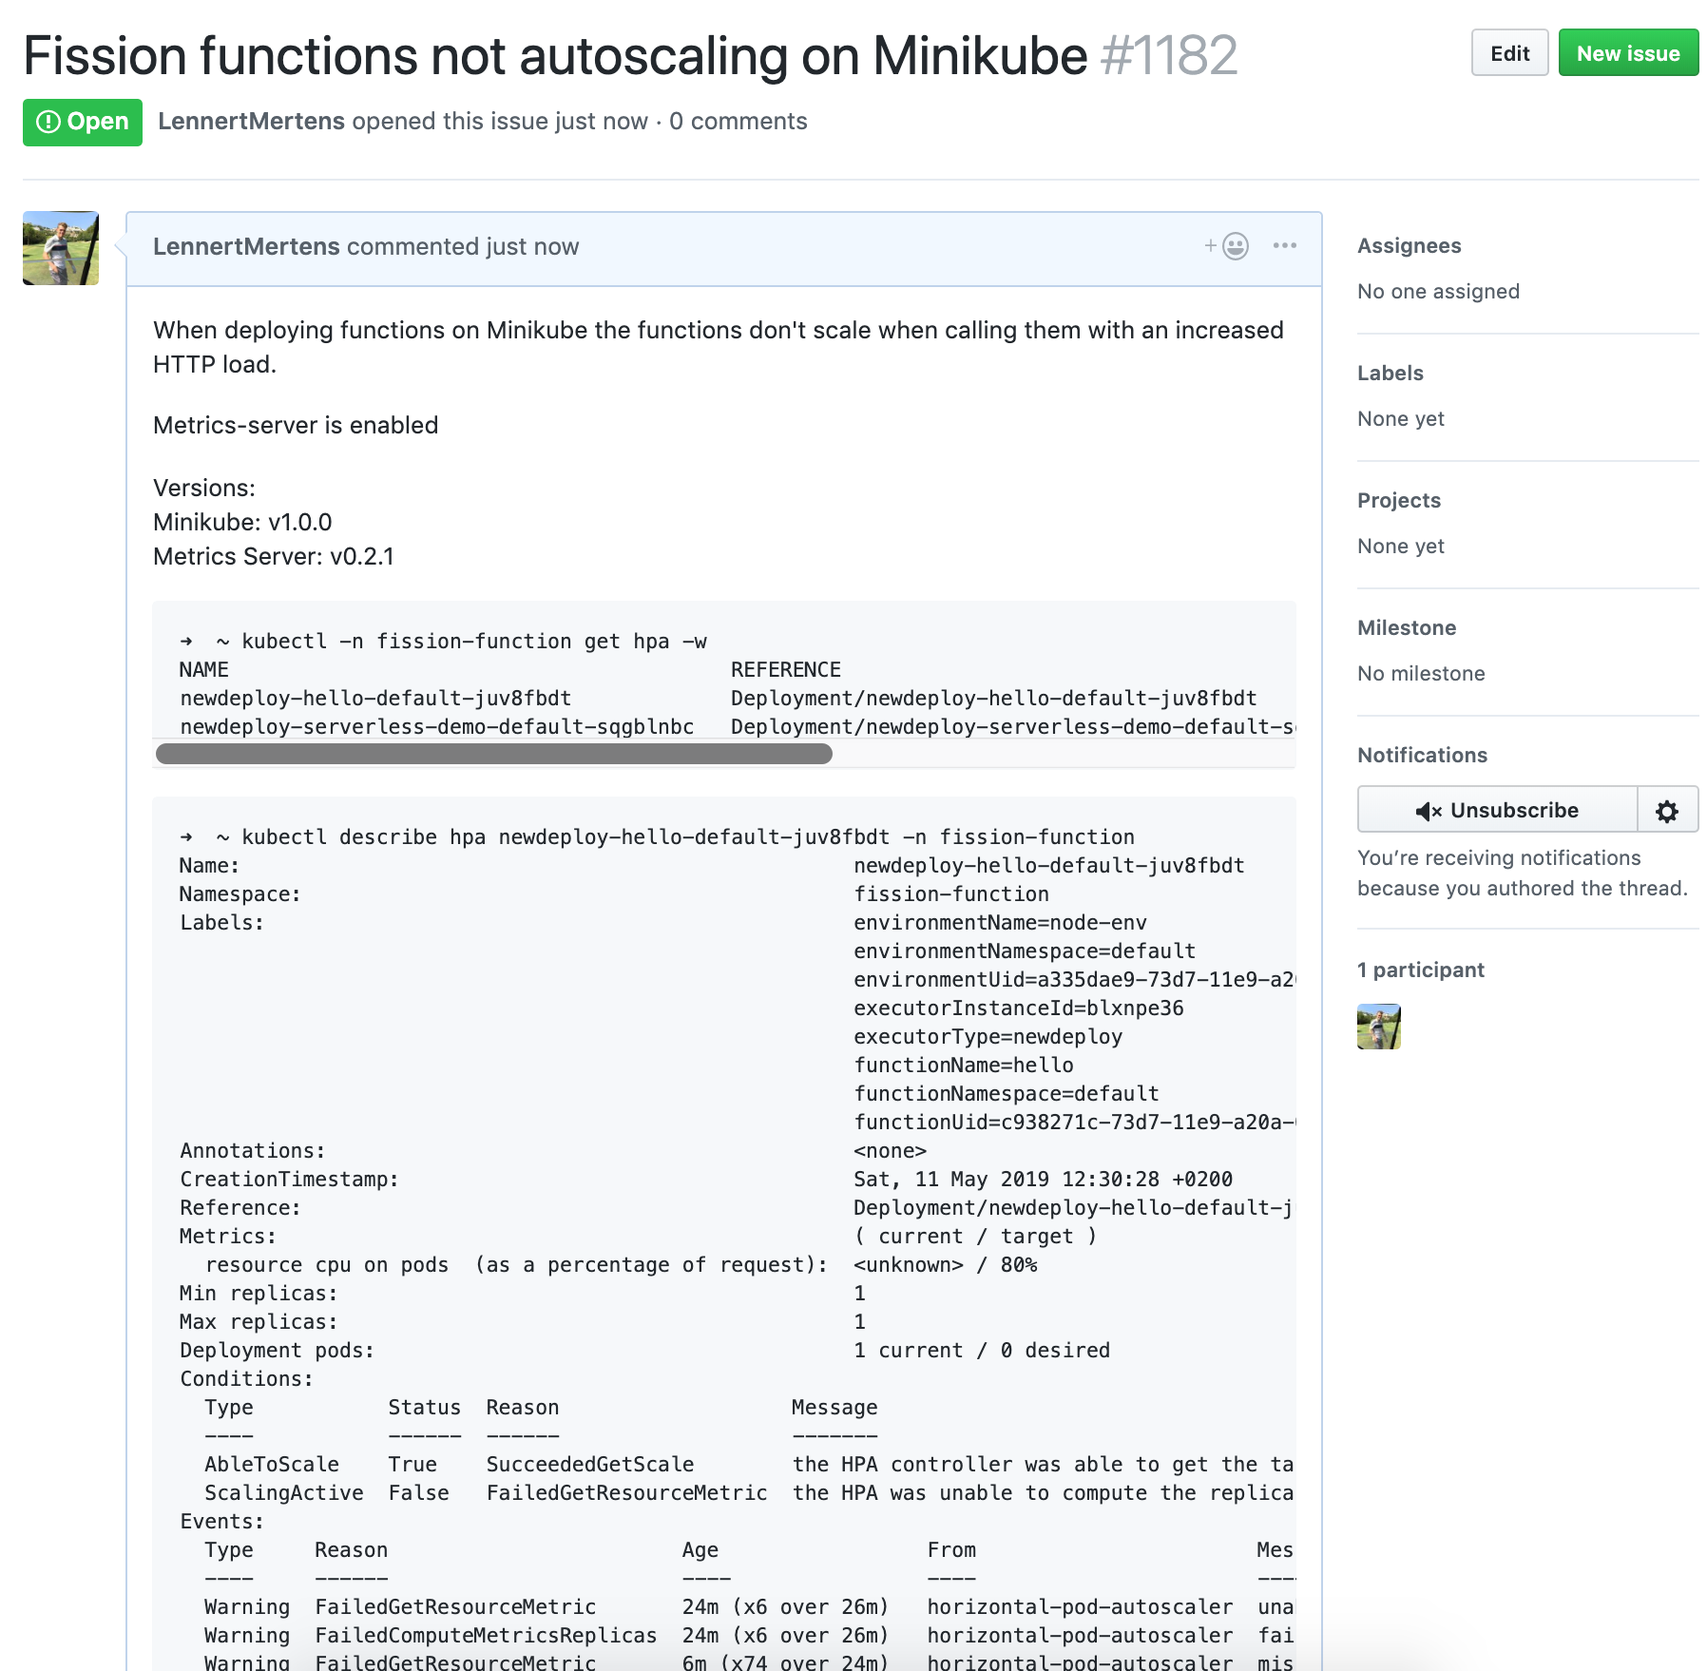
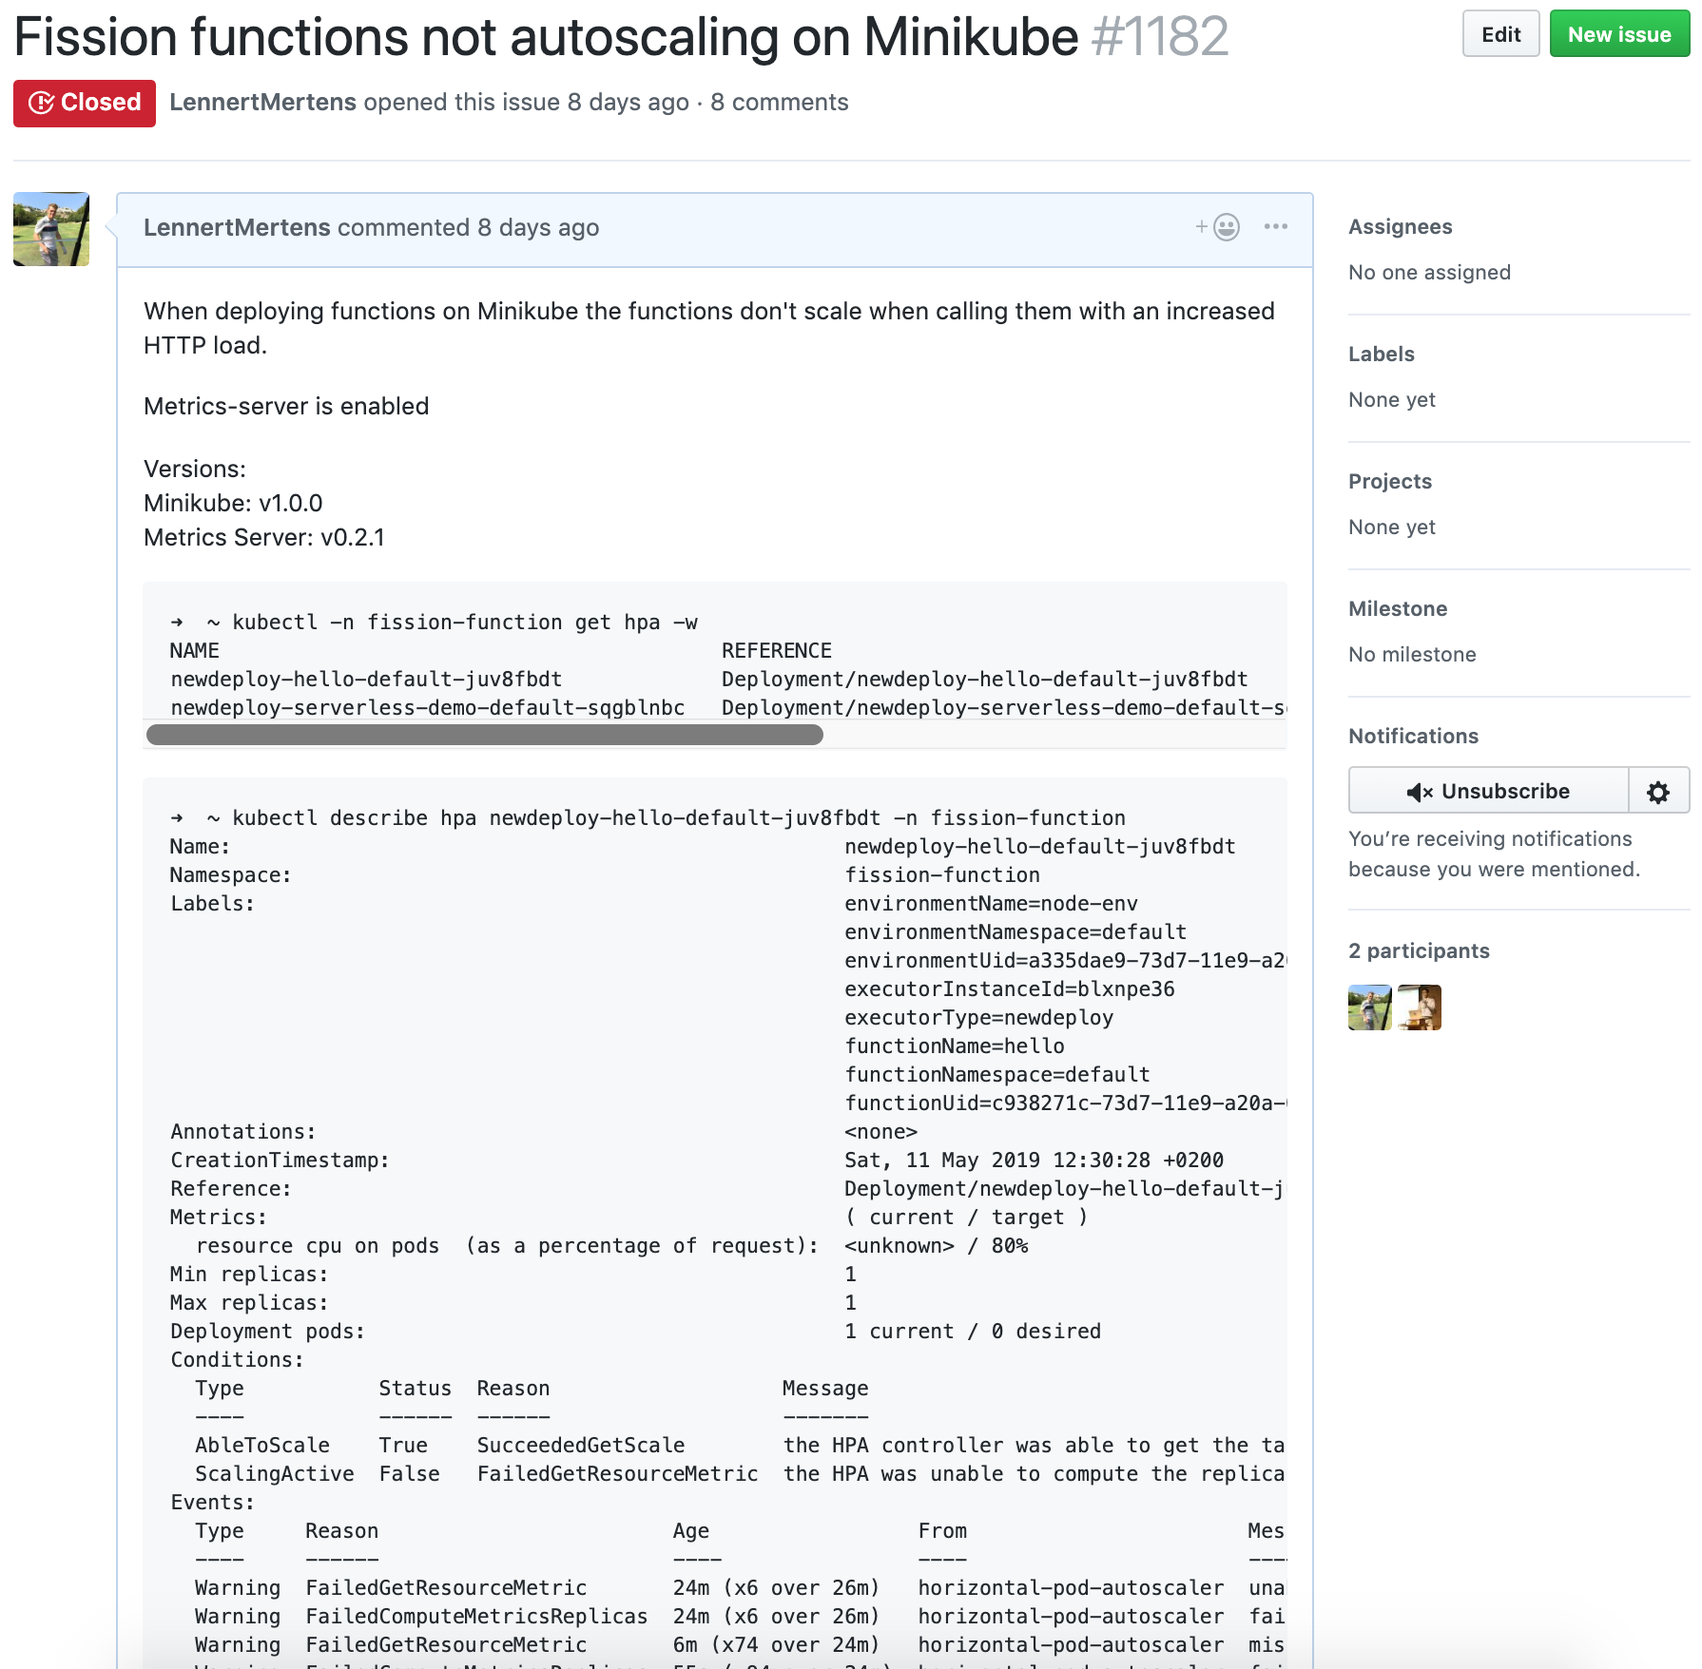
Verbeteren + aanpassing lay-out

diff --git a/bachproef/proof-of-concept.tex b/bachproef/proof-of-concept.tex
@@ -34,6 +34,7 @@ $ brew cask install minikube
 $ brew install kubernetes-cli
 \end{lstlisting}
 
+\newpage
 \subsection{Softwareversies gebruikt tijdens Proof of Concept}
 \begin{itemize}
     \item VirtualBox: 6.0.4 
@@ -59,6 +60,7 @@ minikube-vm at 192.168.99.107
 $ minikube addons enable metrics-server
 \end{lstlisting}
 
+\newpage
 \section{Python demofunctie}
 \label{sec:python-demofunctie}
 De werking van beide frameworks zal worden gedemonstreerd met een zelfgeschreven Python functie. De demofunctie maakt het mogelijk om via een HTTP GET request waaraan een string wordt meegegeven, de string weg te schrijven naar een Google spreadsheet bestand. Wanneer de functie wordt aangeroepen zonder een toegevoegde string dan wordt er een GET request verstuurd naar de API die via de spreadsheet een lijst teruggeeft van weggeschreven woorden uit een vastgelegde kolom. Om gebruik te kunnen maken van Google spreadsheets moet er een Google project worden aangemaakt via de Google API, deze stappen staan verder beschreven. De functie heeft op beide frameworks dezelfde functionaliteit maar de code zal echter aangepast worden aan het framework waarop de functie draait. Beide frameworks verwachten een bepaalde vorm hoe functies geschreven worden. In sectie \ref{sec:demofunctie} is de code terug te vinden voor het uitvoeren van de functie lokaal en dus niet via een FaaS framework. De code werd lokaal geschreven en getest alvorens deze werd aangepast aan de frameworks. De code in sectie \ref{sec:demofunctie} werd gebruikt als uitgangspunt voor het omvormen naar functies die voldoen aan de specifieke vereisten van beide frameworks.
@@ -229,7 +231,8 @@ $ faas-cli login -g $OPENFAAS_URL -u admin -p $PASSWORD
 Na de installatie is het mogelijk naar de OpenFaaS UI te surfen via het IP adres van de Minikube cluster gevolgd door poortnummer 31112.
 De eerste keer dient er aangemeld te worden met gebruiker ''admin'' (Deze gebruiker wordt aangemaakt in het installatiescript) en het wachtwoord dat in de Terminal werd weergegeven door het installatiescript. Na het aanmelden is de interface zoals in figuur \ref{fig:openfaas-ui} te zien. De UI ziet er vrij sober maar heel intuïtief uit, er is eveneens een mogelijkheid om een nieuwe functie te deployen via de ''Deploy New Function'' knop. Wanneer gebruikers kiezen een nieuwe functie te deployen dan kunnen ze enerzijds kiezen voor een community functie, dit zijn reeds bestaande functies die op het OpenFaaS framework kunnen gedraaid worden. Anderzijds kunnen gebruikers ook zelfgeschreven functies deployen aan de hand van deze interface. In dit onderzoek worden functies gedeployed via de command line met het faas-cli commando. Deployments van functies via de command line bieden een betere reproduceerbaarheid en is vaak sneller en makkelijker te reproduceren. Er wordt ook bewust gekozen voor de command line tools omdat niet alle serverless frameworks over een UI beschikken. De interface is een leuke nice-to-have feature en is makkelijk in gebruik voor mensen die aan de slag willen met serverless. De UI wordt eveneens standaard meegeïnstalleerd met OpenFaaS.
 \begin{figure}
-    \includegraphics[width=1\textwidth]{img/openfaas-ui.png}
+    \centering
+    \includegraphics[width=0.8\textwidth]{img/openfaas-ui.png}
     \caption{OpenFaaS User Interface.}
     \label{fig:openfaas-ui}  
 \end{figure}
@@ -242,7 +245,8 @@ $ kubectl port-forward deployment/prometheus 9090:9090 -n openfaas
 \end{lstlisting}
 
 \begin{figure}
-    \includegraphics[width=1\textwidth]{img/openfaas-prometheus}
+    \centering
+    \includegraphics[width=0.8\textwidth]{img/openfaas-prometheus}
     \caption{OpenFaaS Prometheus dashboard.}
     \label{fig:openfaas-prometheus}  
 \end{figure}
@@ -250,7 +254,8 @@ $ kubectl port-forward deployment/prometheus 9090:9090 -n openfaas
 \subsection{Schaalbaarheid OpenFaaS}
 Een van de requirements waaraan het framework moet voldoen is automatische schaalbaarheid. Wanneer het aantal pods van de functie wordt opgevraagd dan is er te zien dat er initieel maar één draait, zie figuur \ref{fig:openfaas-scalability-1}.
 \begin{figure}
-    \includegraphics[width=1\textwidth]{img/openfaas-scalability-1.png}
+    \centering
+    \includegraphics[width=0.8\textwidth]{img/openfaas-scalability-1.png}
     \caption{OpenFaaS standaard pods.}
     \label{fig:openfaas-scalability-1}  
 \end{figure}
@@ -269,6 +274,7 @@ Wanneer de functie zeer veel wordt aangeroepen met bijvoorbeeld loop statements,
     \label{fig:openfaas-scalability-3}  
 \end{figure}
 
+\newpage
 \subsection{Verzamelen functie data}
 Om de frameworks met elkaar te vergelijken wordt de uitvoeringstijd van de geschreven Python functie onder de loep genomen. De tijd die nodig is voor het uitvoeren van de functie, vanaf dat de HTTP request wordt verzonden t.e.m. het moment dat er een response volgt en de functie eindigt, wordt weggeschreven naar een csv bestand. Het csv bestand zal in een later stadium van dit onderzoek gebruikt worden om enkele operaties op uit te voeren die inzicht geven in de uitvoeringstijd van de functie. De demofunctie wordt tweehonderd keer aangeroepen via een HTTP request dat de string ''Test'' wegschrijft naar een Google spreadsheet bestand. Na afloop van wordt de uitvoeringstijd weggeschreven naar het bestand uitvoeringstijd-openfaas.csv dat terug te vinden is in bijlage \ref{sec:uitvoeringstijd-demofunctie}. Onderstaande code voorziet de loop waarmee de functie wordt aangeroepen en de uitvoeringstijd wordt weggeschreven. 
 
@@ -379,7 +385,8 @@ $ curl -X GET -d `Test string` $FISSION_ROUTER/serverless-demo
 \subsubsection{User Interface}
 De installatie voorziet standaard geen user interface. Achteraf kan een UI worden geïnstalleerd maar deze blijkt echter niet te voldoen aan de verwachtingen. De GitHub repository\footnote{https://github.com/fission/fission-ui} waarvan de UI werd gedownload geeft eveneens aan dat deze zeker niet production ready is en momenteel nog een early alpha versie is. Het installatiescript exporteert een variabele met de link voor toegang tot de UI. De standaardpoort waarop de UI draait is poort 31319. In figuur \ref{fig:fission-ui} is te zien hoe de UI eruitziet. Wanneer de UI wordt, geopend wordt er echter een foutboodschap weergegeven die luidt als volgt: ''Fission server supports API v2 only -- v1 is not supported. Please upgrade your Fission client/CLI''. Functies en environments die worden toegevoegd aan Fission worden niet weergegeven in de UI, het is ook niet mogelijk via de UI nieuwe componenten te definiëren. De UI werkt niet en dit is een gekend probleem op GitHub.
 \begin{figure}
-    \includegraphics[width=1\textwidth]{img/fission-ui.png}
+    \centering
+    \includegraphics[width=0.8\textwidth]{img/fission-ui.png}
     \caption{Fission User Interface met foutmelding.}
     \label{fig:fission-ui}  
 \end{figure}

diff --git a/bachproef/conclusie.tex b/bachproef/conclusie.tex
@@ -22,6 +22,6 @@ Beide frameworks zijn vrij makkelijk te installeren maar OpenFaaS voorziet stand
 \\\\
 Het gebruik van open source frameworks kent enkele grote voordelen. Gebruikers zijn niet afhankelijk van een cloud provider die de serverless diensten aanbiedt zoals Amazon, Google of Microsoft. Vendor lock-in wordt dus uitgeschakeld waardoor gebruikers niet meer gebonden zijn aan een derde partij. Open source frameworks kunnen gedeployed worden op een eigen infrastructuur in een privaat datacenter on-premises of in een private cloudomgeving. Het gebruik van FaaS oplossingen beperkt het resource verbruik en voorziet autoscaling van functies zonder dat er rekening moet gehouden worden met onderliggende infrastructuur. De frameworks die werden behandeld kunnen ook worden gedeployed op een bestaande Kubernetescluster waardoor er geen nood is aan extra infrastructuur of virtuele servers.
 \\\\
-In het onderzoek werd getracht het meest interessante open source serverless framework conform de vereisten van Nubera te vinden. Op basis van literair onderzoek, uitgevoerde experimenten en resultatenverwerking werd er tot een besluit gekomen. Het meest veelbelovende framework voor Nubera is OpenFaaS. Zoals reeds werd aangehaald, ligt de uitvoeringstijd van functies hoger bij OpenFaaS dan bij Fission maar het verschil legt echter geen belemmeringen op. Nubera is op zoek naar een serverless framework dat enige maturiteit heeft en goed onderhouden wordt. Daarnaast voldoet OpenFaaS aan alle opgelegde requirements en konden alle functionaliteiten eveneens worden gedemonstreerd. Het onderzoek naar OpenFaaS verliep vlot gezien de duidelijke documentatie en de blogposts die online terug te vinden zijn rond het framework. Aan de ''Nice-to-have'' requirements werd ook voldaan. Klanten van Nubera die interesse hebben in het framework hebben bij OpenFaaS de mogelijkheid om gebruik te maken van de UI, dit is tot op de dag van vandaag iets waar heel veel bedrijven belang aan hechten. De UI zal klassieke klanten kunnen overtuigen om ook aan de slag te gaan met dit serverless framework. Het Fission framework heeft ook erg veel potentieel maar voelt iets minder ''production ready'' aan als OpenFaaS. Binnen de open source community leeft OpenFaaS ook meer dan Fission, desalniettemin heeft het OpenFaaS project ook bijna tienduizend GitHub stars meer wat toch wel wijst op populariteit.
+In het onderzoek werd getracht het meest interessante open source serverless framework in overeenstemming met de vereisten van Nubera te vinden. Op basis van literair onderzoek, uitgevoerde experimenten en resultatenverwerking werd er tot een besluit gekomen. Het meest veelbelovende framework voor Nubera is OpenFaaS. Zoals reeds werd aangehaald, ligt de uitvoeringstijd van functies hoger bij OpenFaaS dan bij Fission maar het verschil legt echter geen belemmeringen op. Nubera is op zoek naar een serverless framework dat enige maturiteit heeft en goed onderhouden wordt. Daarnaast voldoet OpenFaaS aan alle opgelegde requirements en konden alle functionaliteiten eveneens worden gedemonstreerd. Het onderzoek naar OpenFaaS verliep vlot gezien de duidelijke documentatie en de blogposts die online terug te vinden zijn rond het framework. Aan de ''Nice-to-have'' requirements werd ook voldaan. Klanten van Nubera die interesse hebben in het framework hebben bij OpenFaaS de mogelijkheid om gebruik te maken van de UI, dit is tot op de dag van vandaag iets waar heel veel bedrijven belang aan hechten. De UI zal klassieke klanten kunnen overtuigen om ook aan de slag te gaan met dit serverless framework. Het Fission framework heeft ook erg veel potentieel maar voelt iets minder ''production ready'' aan als OpenFaaS. Binnen de open source community leeft OpenFaaS op het moment van schrijven ook meer dan Fission, desalniettemin heeft het OpenFaaS project ook bijna tienduizend GitHub stars meer wat toch wel wijst op populariteit.
 \\\\
-Serverless computing is in opmars en dit was ook te merken tijdens het uitwerken van dit onderzoek. Er verschijnen steeds meer bronnen rond het onderwerp op het internet en steeds meer bedrijven gaan ermee aan de slag. De term serverless zorgt nog steeds voor heel wat opschudding bij mensen die geen inzicht hebben in dit onderwerp. Via deze bachelorproef werden de belangrijkste concepten rond serverless nader verklaard in combinatie met enkele demo's die inzicht geven in de mogelijkheden van twee interessante open source serverless frameworks. Na het lezen van dit verslag heeft de lezer hopelijk heel wat nieuwe kennis opgedaan rond serverless en is deze nu ook instaat zich verder te verdiepen in het onderwerp. Er werden twee veelbelovende open source Kubernetes native serverless platformen behandeld, maar er bestaan er nog alternatieven die verder onderzoek meer dan waard zijn. Hopelijk kan deze bachelorproef een aanzet geven voor verder onderzoek naar andere, misschien minder bekende maar veelbelovende, open source serverless frameworks.
+Serverless computing is in opmars en dit was ook te merken tijdens het uitwerken van dit onderzoek. Er verschijnen steeds meer bronnen rond het onderwerp op het internet en steeds meer bedrijven gaan ermee aan de slag. De term serverless zorgt nog steeds voor heel wat opschudding bij mensen die geen inzicht hebben in dit onderwerp. Via deze bachelorproef werden de belangrijkste concepten rond serverless nader verklaard in combinatie met enkele demo's die inzicht geven in de mogelijkheden van twee interessante open source serverless frameworks. Na het lezen van dit verslag heeft de lezer hopelijk heel wat nieuwe kennis opgedaan rond serverless en is deze nu ook instaat zich verder te verdiepen in het onderwerp. Er werden twee veelbelovende open source Kubernetes native serverless platformen behandeld, maar er bestaan nog alternatieven die verder onderzoek meer dan waard zijn. Hopelijk kan deze bachelorproef een aanzet geven voor verder onderzoek naar andere, misschien minder bekende maar veelbelovende, open source serverless frameworks.

diff --git a/bachproef/uitwerking.tex b/bachproef/uitwerking.tex
@@ -167,7 +167,7 @@ OpenFaaS\footnote{https://www.openfaas.com/} is een open source Function as a Se
 De aspecten waarmee \textcite{OpenFaaS2019} uitpakt om zich te onderscheiden van anderen zijn:
 \begin{itemize}
     \item Makkelijke installatie en eenvoud in gebruik door de beschikbare UI.
-    \item Portable: draait op bestaande hardware of in de public/private cloud  bovenop Kubernetes of Docker Swarm.
+    \item Portable: on-prem in de public/private cloud  bovenop Kubernetes of Docker Swarm.
     \item Functies in eender welke taal voor Linux of Windows.
     \item Auto-scalable wanneer de vraag verhoogt.
     \item YAML format voor templating en definiëren van functies.
@@ -279,5 +279,6 @@ Fission bestaat uit verschillende componenten, met elk hun eigen verantwoordelij
     \\
 \end{description}
 
+\newpage
 \subsection{Verschillen en overweging}
 Tijdens de uitwerking van de shortlist werd duidelijk dat er over het ene framework meer terug te vinden is dan over het andere. De meeste documentatie en voorbeelden werden teruggevonden bij het zoeken naar OpenFaaS. In vergelijking met Fission is OpenFaaS op dit moment ook een stuk populairder en naar eigen mening ook duidelijker beschreven. Beide frameworks beschikken over een mooie documentatiewebsite, al is de website van OpenFaaS wel iets uitgebreider en duidelijker beschreven. Het is voor beginners ook makkelijker om in serverless te stappen met het OpenFaaS in vergelijking met Fission net omdat de documentatie hierover duidelijker is en aangenamer leest. OpenFaaS beschikt in tegenstelling tot Fission over meer relevante ''talks'' op YouTube en andere blog platformen. OpenFaaS pakt daarnaast ook uit met de eenvoud van installatie en garanderen een installatie die makkelijk uit te voeren is. Op basis van de ervaring opgedaan tijdens het onderzoek in deze short list lijkt OpenFaaS een zeer interessant alternatief voor Fission. In volgend hoofdstuk wordt er een Proof of Concept (PoC) opgezet van beide frameworks, op basis van deze PoC worden de requirements die nog niet gemeten werden vergeleken. Op basis van de Proof of Concept moet ook duidelijk zijn welk framework het interessantst zou kunnen zijn voor Nubera. De verschillen, gelijkenissen voor- en nadelen tussen Fission en OpenFaaS worden vergeleken.

diff --git a/bachproef/issues.tex b/bachproef/issues.tex
@@ -1,17 +1,17 @@
 \section{Issues}
 \subsection{Fission Slack conversatie}
 \label{sec:fission-slack-issue}
-In afbeelding \ref{fig:fission-slack-issue-1} is de conversatie gevoerd op de Slack channel van het Fission project terug te vinden. Deze mensen hebben geprobeerd het probleem te verhelpen maar hebben het ook niet onmiddellijk gevonden.
+In afbeelding \ref{fig:fission-slack-issue-1} is de conversatie gevoerd op de Slack channel van het Fission project terug te vinden. Deze mensen hebben geprobeerd het probleem te verhelpen maar hebben ook geen oplossing kunnen aanreiken.
 \begin{figure}
     \includegraphics[width=1\textwidth]{img/fission-slack-issue-1.png}
      \includegraphics[width=1\textwidth]{img/fission-slack-issue-2.png}
-    \caption{Fission functie target unknown.}
+    \caption{Fission Slack channel conversatie.}
     \label{fig:fission-slack-issue-1}  
 \end{figure}
 
 \subsection{Fission GitHub issue}
 \label{sec:fission-github-issue}
-Na troubleshooting en verder uitproberen werd er besloten een GitHub issue\footnote{https://github.com/fission/fission/issues/1182} aan te maken op het Fission project en de tegengekomen problemen te melden, dit kan anderen die hetzelfde probleem tegenkomen helpen.
+Na troubleshooting en verder uitproberen werd er besloten een GitHub issue\footnote{https://github.com/fission/fission/issues/1182} aan te maken op het Fission project en de tegengekomen problemen te melden, dit kan anderen die hetzelfde probleem tegenkomen helpen. De issue werd gesloten en er werd ook geen concrete oplossing aangereikt.
 \begin{figure}
     \includegraphics[width=1\textwidth]{img/fission-github-issue.png}
     \caption{Fission issue op GitHub.}
